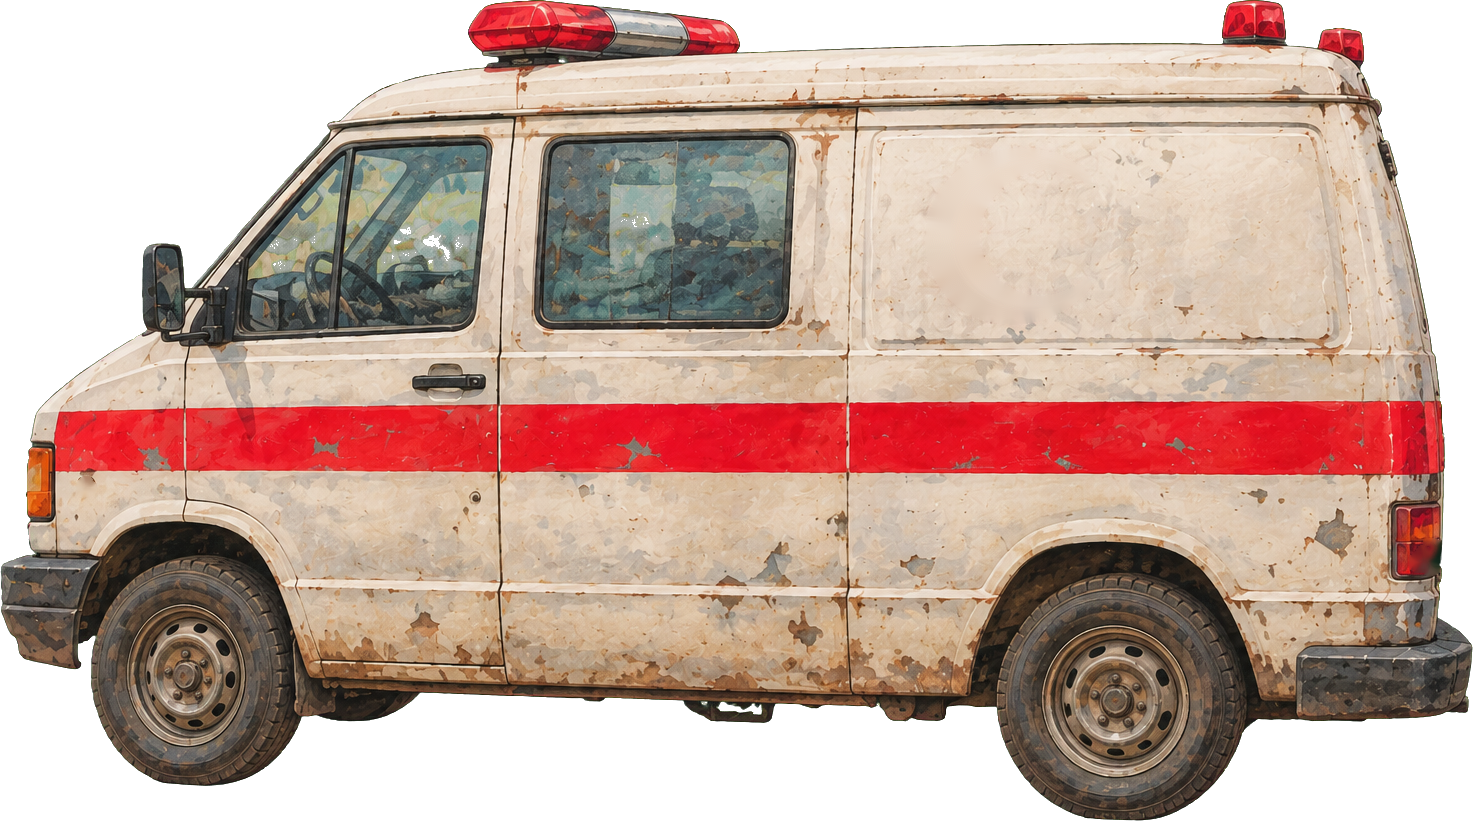
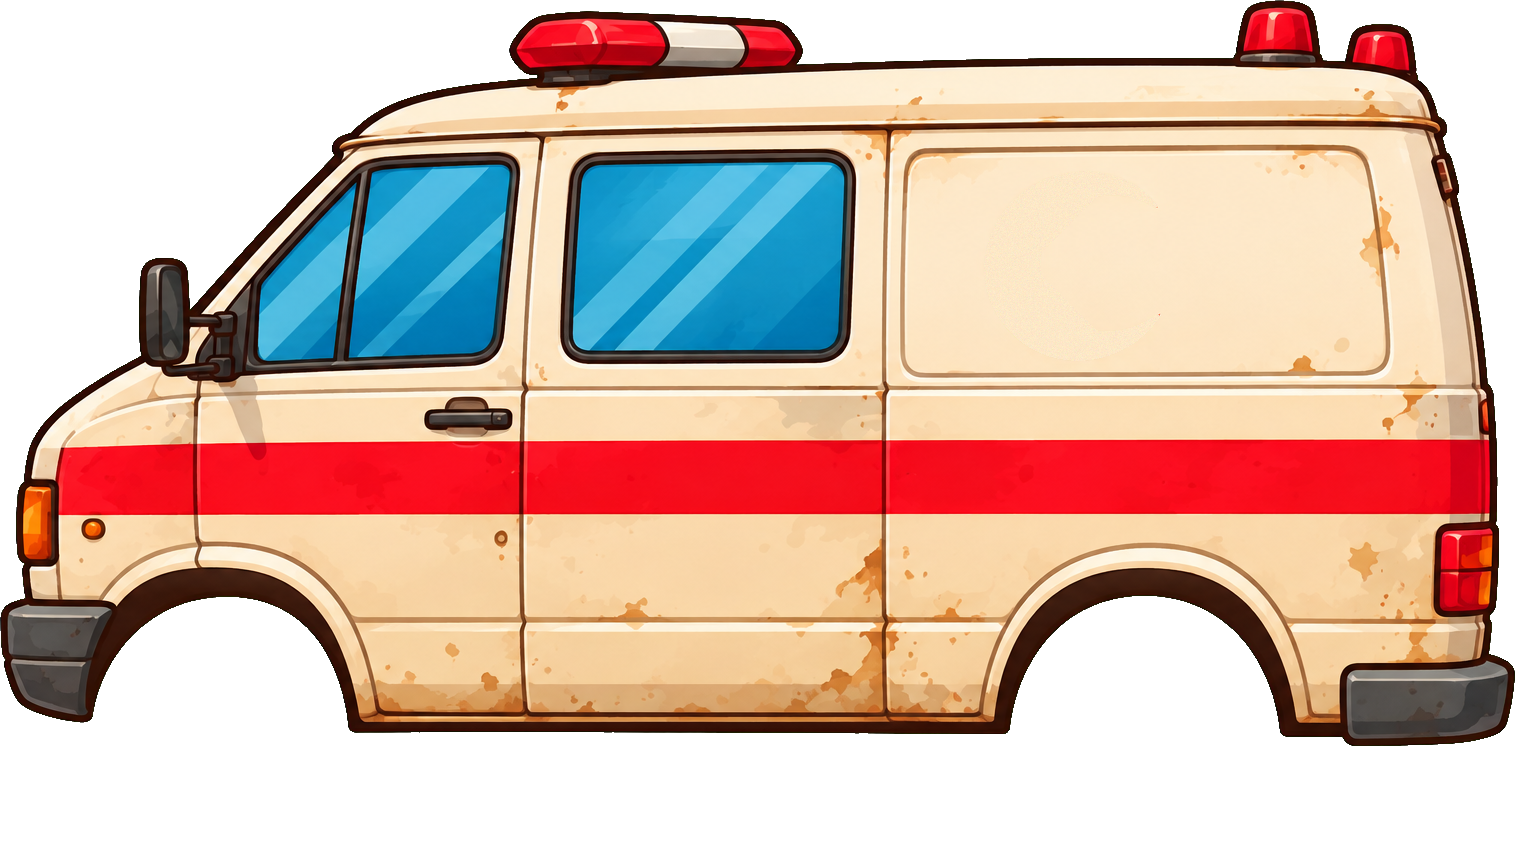
Cartoon ambulance side view with turning cartoon wheels (crescent painted out)
Claude-Session: https://claude.ai/code/session_01NK9iDXTyx3wBvzPstrXWEG

diff --git a/Assets/Scripts/Prototype/StreetLife.cs b/Assets/Scripts/Prototype/StreetLife.cs
@@ -196,20 +196,24 @@ namespace Sheytoonak
                 // one, turning with the distance. Measured on the keyed 1473x821 picture: centres (195, 690) and (1105, 700), r 100.
                 var wheelTex = Resources.Load<Texture2D>("Art/Props/ambulance_wheel") ?? Resources.Load<Texture2D>("Art/Cars/wheel_1");
                 var wheels = new List<Transform>();
+                // ⚠ 2026-11-12: the cartoon van (1515x845, rows padded below so the picture's bottom is the road) has empty
+                // arches; wheels centred (220, 723) and (1144, 723), r 122. The old realistic one painted its own wheels.
+                bool toon = closed.height == 845;
                 if (wheelTex != null && closed.width > 1400)
                 {
                     var wsp = Sprite.Create(wheelTex, new Rect(0, 0, wheelTex.width, wheelTex.height), new Vector2(0.5f, 0.5f), 100f);
-                    foreach (var c in new[] { new Vector2(195f, 690f), new Vector2(1105f, 700f) })
+                    foreach (var c in toon ? new[] { new Vector2(220f, 723f), new Vector2(1144f, 723f) } : new[] { new Vector2(195f, 690f), new Vector2(1105f, 700f) })
                     {
                         var w = new GameObject("Wheel").AddComponent<SpriteRenderer>();
                         w.sprite = wsp; w.sortingOrder = vr.sortingOrder + 1;
                         w.transform.SetParent(van, false);
                         w.transform.localPosition = new Vector3((c.x - closed.width * 0.5f) / 100f, (closed.height - c.y) / 100f, -0.01f);
-                        w.transform.localScale = Vector3.one * (200f / wheelTex.width);
+                        w.transform.localScale = Vector3.one * ((toon ? 244f : 200f) / wheelTex.width);
+                        if (toon) w.sortingOrder = vr.sortingOrder - 1; // the arches cover the tyres' tops
                         wheels.Add(w.transform);
                     }
                 }
-                float wheelR = 1f * Mathf.Abs(van.localScale.y); // 100 px at 100 ppu, scaled
+                float wheelR = (toon ? 1.22f : 1f) * Mathf.Abs(van.localScale.y); // the wheel's radius at 100 ppu, scaled
                 float x0 = van.position.x, x1 = t.position.x + side * 2.2f;
                 for (float k = 0f; k < 1f; k += Time.deltaTime / 2f)
                 {

diff --git a/docs/CHANGELOG.fa.md b/docs/CHANGELOG.fa.md
@@ -2,6 +2,10 @@
 
 این فایل خلاصهی کارهای انجامشده است تا اگر کار جای دیگری ادامه پیدا کرد، معلوم باشد چه ساخته شده، چرا، و چه چیزهایی هنوز باز است. جزئیاتِ هر تغییر در پیامِ کامیتهاست (`git log`)؛ اینجا فقط نقشهی راه.
 
+## ۲۲ آبان -- آمبولانسِ کارتونی از کنار
+
+* بدنهی بستهی بیچرخ (۱۵۱۵×۸۴۵؛ پایینِ تصویر = جاده) + همان چرخِ کارتونی که با مسافت میچرخد؛ مرکزِ چرخها (۲۲۰، ۷۲۳) و (۱۱۴۴، ۷۲۳)، شعاع ۱۲۲. ⚠ هلالِ احمر باز هم رویِ بدنه بود و پاک شد. حالا همهی ماشینها کارتونیاند.
+
 ## ۲۲ آبان -- ماشینهایِ کارتونی
 
 * چهار بدنهی بیچرخ + چهار چرخ (تاکسی، بیتل، وانت، پژو)؛ `cars.txt` رویِ تصویرِ تازه اندازه شد (کف، شعاع، مرکزِ قوسها). شیشهها سبزِ کمرنگ بودند و کلیدِ سبز خطرِ پاککردنشان را داشت: پرکردن از لبهی تصویر نگهشان داشت و به آبیِ شیشه برگشتند. قدیمیها در `Assets/ArtArchive/Cars/`.
